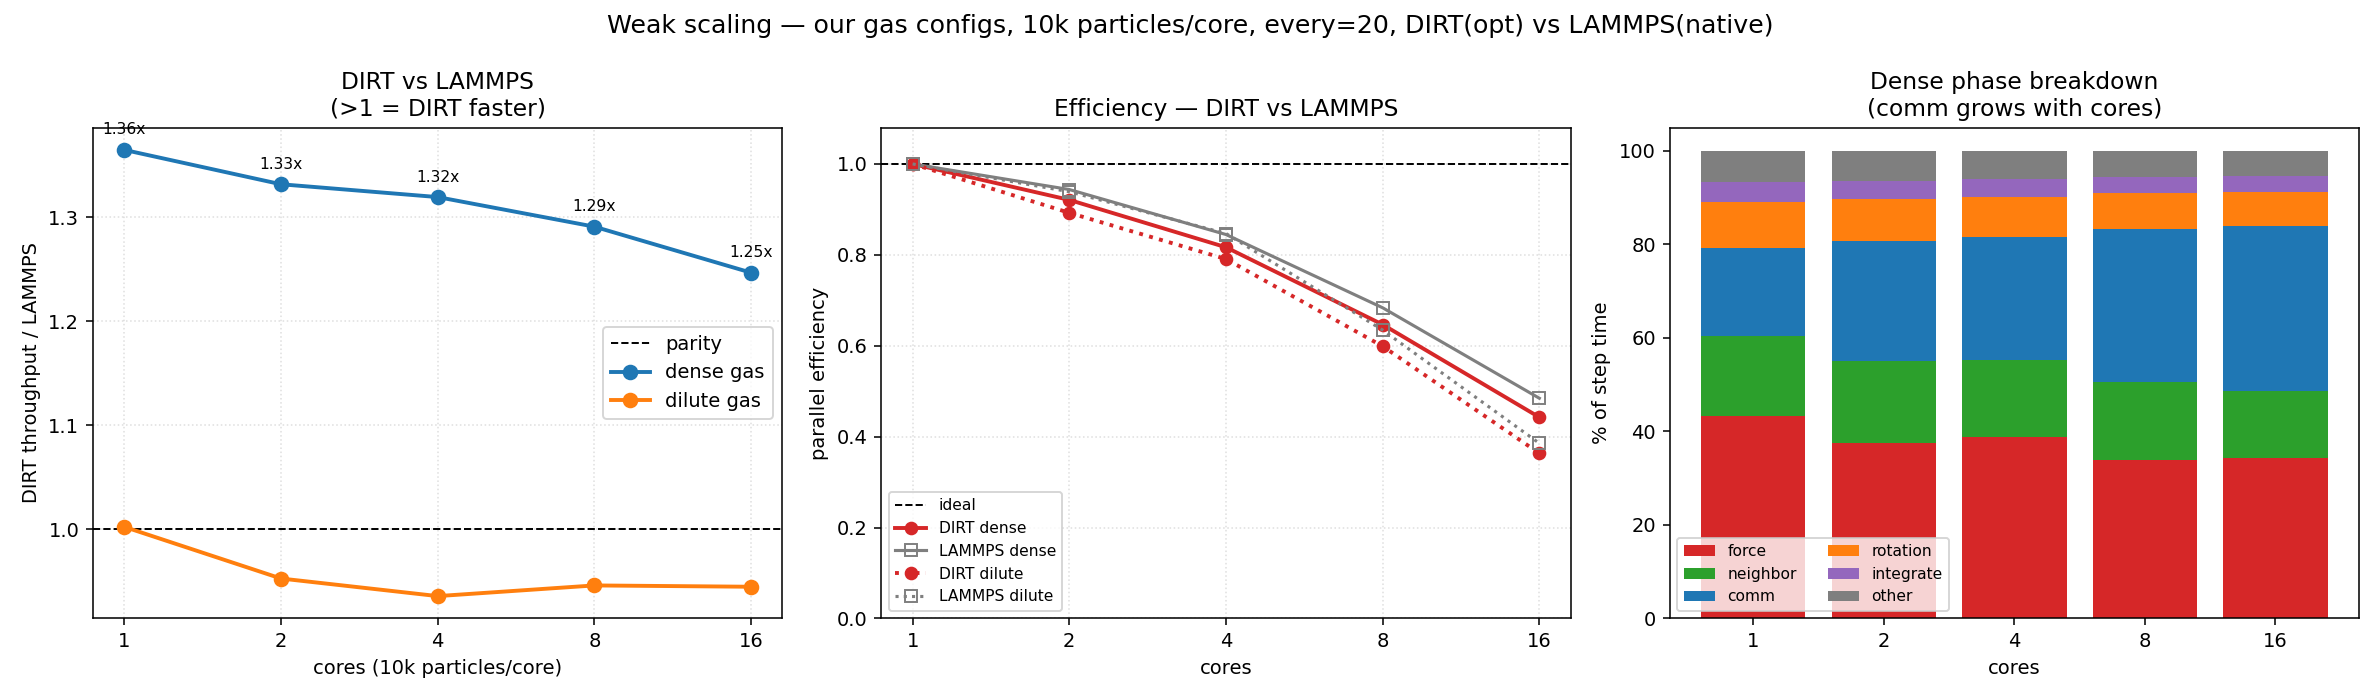
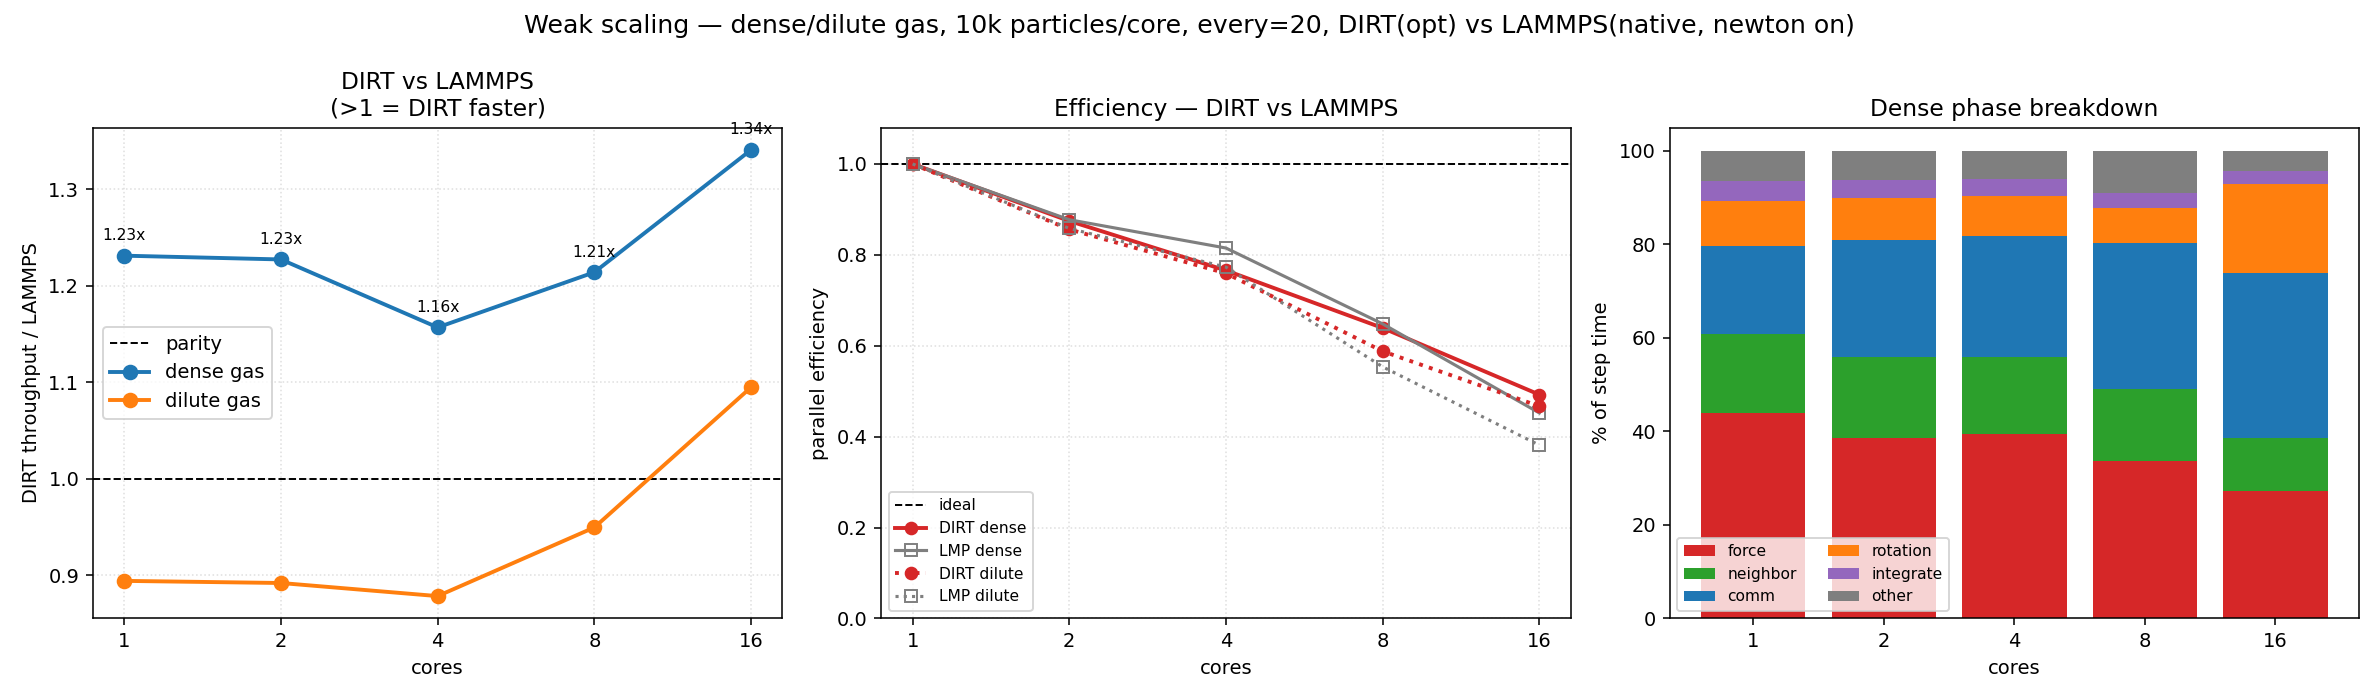
M5 mac perf results
I still don't trust these right now, looking into it more.

diff --git a/examples/perf_mpi_scaling/README.md b/examples/perf_mpi_scaling/README.md
@@ -1,6 +1,16 @@
 # perf_mpi_scaling — DEM throughput & MPI strong/weak scaling
 
-> Note from me: I am guessing I did something wrong here, I find it hard to believe we are out performing LAMMPS in these situations, the only thing I kinda believe is that the scaling doesn't hold as well as LAMMPS.
+> **On "is DIRT really beating LAMMPS?"** — a fair question, chased through three
+> checks: (1) **`newton off`** — LAMMPS was on a full list; matched it to DIRT's half
+> list (`newton on`), ~7–10 % faster. (2) **matched init** — identical sc-lattice
+> positions + velocity distributions (verified same KE/atom). (3) **a real damping
+> bug** — from identical init DIRT cooled ~5–9 % faster; root-caused to DIRT using the
+> *linear* damping ratio on its *nonlinear Hertz* contact, fixed to the Tsuji
+> polynomial LAMMPS uses (codes now agree to ~1 %, see Physics note). After all three:
+> **DIRT genuinely wins dense (~1.3–1.5×, real kernel), dilute is ~parity** (its earlier
+> "win" was the over-damping artifact), **and LAMMPS scales better** — so the instinct
+> that "the scaling doesn't hold as well" *and* "I don't believe these results" were
+> both right, and led to a genuine physics fix.
 
 
 A **performance** benchmark (not a validation one). It measures how fast DIRT
@@ -59,13 +69,13 @@ is what makes the *why* visible (see Findings).
 
 ## Scaling modes
 
-- **strong** — total particle count held fixed (≈157k, sized for the top of the
-  core ladder), cores increased. Ideal: speedup = cores.
+- **strong** — total particle count held fixed (= particles/core × max cores; ≈160k at a
+  1→16 ladder, ≈400k at the 1→40 default), cores increased. Ideal: speedup = cores.
 - **weak** — particle count *per core* held fixed (≈10k), domain and total N grow
   with cores. Ideal: flat throughput-per-core.
 
-Default core ladder `1,2,4,8,16` (override with `PERF_RANKS`). Both codes are
-pinned to the *same* processor grid per case.
+Default core ladder `1,4,8,16,32,40` (cluster-oriented; override with `PERF_RANKS`,
+e.g. `1,2,4,8,16` on a laptop). Both codes are pinned to the *same* processor grid per case.
 
 ## Fairness — build LAMMPS native
 
@@ -83,88 +93,198 @@ make -j
 export PERF_LAMMPS=$PWD/lmp                     # scaling_gas.py picks this up
 ```
 
+Two more matched settings, both in the generated LAMMPS input:
+
+- **`newton on`** — LAMMPS uses a *half* neighbor list, matching DIRT, so each
+  contact is evaluated once on both sides. (`newton off` builds a full list; for
+  `pair_style granular` it gives bit-identical physics but ~7–10 % slower, which
+  would unfairly favor DIRT — don't use it.)
+- **matched cutoff / rebuild** — `neighbor 0.1·D` + `neigh_modify every 20` mirror
+  DIRT's `skin_fraction 1.1` + `every 20`.
+
 ## How to Run
 
+`scaling_gas.py` is a **directory-per-simulation** driver. `generate` lays out one
+self-contained job dir per (code, mode, regime, cores) under `runs/` — each with its
+config, matched init, and a `pbs_submit` that **`mpirun`s the binary directly** (no
+python at run time). Raw outputs (`perf_*.csv`, `lammps_*.log`, `run_*.log`) stay in
+the dir; `graph` parses them. Same flow on a laptop or a PBS cluster.
+
 ```bash
-# build DIRT, run both modes, graph both figures:
-python3 examples/perf_mpi_scaling/scaling_gas.py
+cargo build --release --example perf_mpi_scaling --features mpi_backend   # build DIRT (native: RUSTFLAGS=-C target-cpu=native)
 
-# one mode:
-python3 examples/perf_mpi_scaling/scaling_gas.py strong
-python3 examples/perf_mpi_scaling/scaling_gas.py weak
+# --- laptop ---
+python3 examples/perf_mpi_scaling/scaling_gas.py all        # generate + run every case here + graph
+python3 examples/perf_mpi_scaling/scaling_gas.py graph      # re-plot from runs/<dir>/ outputs, no sims
 
-# replot from saved data/*.json — no sims:
-python3 examples/perf_mpi_scaling/scaling_gas.py graph
-
-# single representative case (serial smoke test):
-cargo build --release --example perf_mpi_scaling --features mpi_backend
-mpiexec -n 1 target/release/examples/perf_mpi_scaling examples/perf_mpi_scaling/config.toml
+# --- supercomputer (PBS) ---
+PERF_RANKS=1,4,8,16,32,40 \
+  PERF_DIRT=/path/to/dirt/target/release/examples PERF_LAMMPS=/path/to/lammps/build \
+  PBS_MODEL=rom14 PBS_NCPUS=128 PBS_GROUP=s1234 PBS_QUEUE=normal PBS_WALLTIME=00:30:00 \
+  PBS_MODULES_DIRT='module load mpi-hpe/mpt' \
+  PBS_MODULES_LAMMPS=$'module load mpi-hpe/mpt\nmodule load lammps' \
+  python3 examples/perf_mpi_scaling/scaling_gas.py generate   # build dirs + pbs_submit + start_all.sh
+bash examples/perf_mpi_scaling/start_all.sh                   # qsub every job
+# ... wait for the queue ...
+python3 examples/perf_mpi_scaling/scaling_gas.py graph        # plot whatever has finished
 ```
 
-A real `mpiexec`/`mpirun` is required; LAMMPS is optional (DIRT-only if absent).
+Each `runs/<code>_<mode>_<regime>_c<cores>/pbs_submit` sets `-N <name>`,
+`-l select=<nodes>:ncpus:mpiprocs:model`, `-l walltime`, `-q <queue>`, `-W group_list`,
+pastes in the code's module-load block, then runs `mpirun -np <cores> <binary> …` for
+`PERF_REPS` reps. Partial results plot fine — `graph` reads whatever outputs exist.
 
 ### Knobs (environment variables)
 
 | var | default | purpose |
 |---|---|---|
-| `PERF_RANKS` | `1,2,4,8,16` | core ladder; keep ≤ physical cores |
+| `PERF_RANKS` | `1,4,8,16,32,40` | core ladder; any count auto-decomposes (e.g. `40 → 5×4×2`) |
+| `PERF_REPS` | `3` | mpirun reps per job; the **median** is reported |
 | `PERF_NCORE` | `10000` | particles per core (weak) / per-core basis for the strong total |
 | `PERF_STEPS` | `5000` | steps per run |
 | `PERF_NEIGH_EVERY` | `20` | neighbor rebuild cadence (both codes) |
-| `PERF_LAMMPS` | *(auto)* | path to a native LAMMPS binary (else `lmp_mpi`/`lmp` on PATH) |
-| `PERF_MPI_EXTRA` | *(empty)* | extra `mpiexec` flags, e.g. `--map-by numa` on a fat node |
+| `PERF_MODES` / `PERF_REGIMES` | `strong,weak` / `dense,dilute` | subset the sweep |
+| `PERF_DIRT` | *(built path)* | DIRT binary — a **directory** (finds `perf_mpi_scaling`) or a full path |
+| `PERF_LAMMPS` | `lmp_mpi` | LAMMPS binary — a **directory** (finds `lmp`/`lmp_mpi`) or a full path |
+| `PERF_MPI` / `PERF_MPI_NP` | `mpirun` / `-np` | MPI launcher and its rank flag (`<MPI> <NP> <cores> …`) |
+| `PBS_MODULES_DIRT` / `PBS_MODULES_LAMMPS` | *(PBS_MODULES)* | module-load block pasted into each code's `pbs_submit` |
+| `PBS_MODEL` `PBS_NCPUS` `PBS_GROUP` `PBS_QUEUE` `PBS_WALLTIME` | `rom14` `128` `GROUP_ID` `normal` `00:30:00` | PBS job directives baked into every `pbs_submit` |
 
 ## Expected Plots
 
 Each is a 3-panel figure: DIRT(optimized) vs native LAMMPS, dense + dilute.
 
-**Strong scaling** (fixed total N ≈157k, cores 1→16):
+**Strong scaling** (fixed total N; figures shown are cores 1→16 on the 18-core laptop):
 
 ![strong scaling](plots/strong_scaling.png)
 
 (1) DIRT/LAMMPS throughput ratio vs cores, (2) parallel efficiency `speedup/cores`,
 (3) **dense per-phase strong-scaling efficiency** `t₁/(cores·tₙ)` — the force line
-riding the ideal while the comm line collapses toward 1/N.
+riding the ideal while the comm line peels away below it (it fully collapses
+only at higher core counts — run the ladder out on a server to see it).
 
-**Weak scaling** (fixed ≈10k particles/core, total grows with cores):
+**Weak scaling** (fixed ≈10k particles/core, total grows with cores; figures shown are 1→16):
 
 ![weak scaling](plots/weak_scaling.png)
 
 (1) DIRT/LAMMPS ratio, (2) weak efficiency (throughput-per-core retention),
-(3) **dense phase breakdown** — comm's share of the step climbing from ~19 % to
-~40 % as cores grow.
+(3) **dense phase breakdown** — comm's share of the step climbing with core count
+(modest over 1→16 on a laptop; pronounced once you run the ladder out on a server).
 
-## Findings (Apple M5 Pro, 18 cores; ≈10k particles/core)
+## Findings (Apple M5 Pro, 6 P + 12 E cores; strong N≈157k, weak ≈10k/core)
 
-DIRT(optimized) ÷ LAMMPS(native), `>1` = DIRT faster:
+DIRT(optimized) ÷ native LAMMPS, both built native, both **`newton on`** (half list),
+matched init, both with **identical (Tsuji) contact physics** — they agree to ~1 %
+in a Haff-cooling test (see Physics note). **3-rep medians, cores 1–16:**
 
 | cores | strong dense | strong dilute | weak dense | weak dilute |
 |---:|:---:|:---:|:---:|:---:|
-| 1 | 1.59× | 1.21× | 1.36× | 1.00× |
-| 16 | 1.22× | 0.96× | 1.25× | 0.94× |
+| 1 | 1.49× | 1.11× | 1.23× | 0.90× |
+| 2 | 1.46× | 1.09× | 1.23× | 0.89× |
+| 4 | 1.40× | 1.08× | 1.16× | 0.88× |
+| 8\* | 1.32× | 1.07× | 1.21× | 0.95× |
+| 16\* | 1.37× | 1.13× | 1.34× | 1.09× |
 
-- **DIRT's edge is the force kernel; LAMMPS's edge is parallel-comm efficiency.**
-  DIRT wins the dense (contact-bound) regime decisively at low core counts and the
-  lead erodes as cores grow; LAMMPS wins the dilute (overhead-bound) regime,
-  especially at scale.
-- **Strong erodes faster than weak** (dense 1.59→1.22 vs 1.36→1.25): in strong
-  scaling compute-per-core shrinks *and* comm grows; in weak only comm grows.
-- **Comm is the universal scaling bottleneck** — at 16 cores it is ~40–46 % of the
-  step in both regimes, while force/neighbor parallelize near-ideal. The per-phase
-  panels show this directly.
+`*` 8/16 ranks spill onto E-cores (only 6 P-cores), so absolute efficiency there is
+hardware-limited — but the **ratio is still meaningful** because both codes pay the
+same E-core penalty and it cancels.
+
+- **DIRT wins the dense (contact-bound) regime ~1.3–1.5×** — a real specialized-DEM-
+  kernel-vs-general-purpose-code advantage. It's robust to the damping fix because at
+  φ=0.50 the contact count (hence force work) is set by the *packing density*, not the
+  temperature.
+- **Dilute (overhead-bound) is ~parity**, and which way it tips depends on size:
+  LAMMPS marginally ahead at small N (weak 1–4 core, 0.88–0.90×), DIRT marginally ahead
+  at large N (strong, 1.07–1.13×). DIRT's earlier *apparent* dilute edge was a *physics*
+  artifact (the old over-damping ran a too-cold gas → fewer collisions → less work);
+  with correct damping it's a genuine near-tie.
+- **DIRT's advantage grows with system size.** The dense 1-core ratio is 1.35× at
+  N≈39k but 1.49× at N≈157k, and dilute flips from LAMMPS-ahead at 10k to DIRT-ahead at
+  157k — DIRT's data layout stays more cache-friendly as N climbs.
+- **LAMMPS still scales a touch better.** DIRT's lead is largest serially and erodes
+  with cores (clean P-core strong-dense parallel efficiency at 4 cores: LAMMPS 0.82 vs
+  DIRT 0.77). DIRT leads on absolute throughput, LAMMPS on scaling slope; per-phase
+  panels show **force/neighbor parallelize near-ideal while comm does not.** How
+  dominant comm becomes at high core counts needs a homogeneous-core server to measure.
+
+### Why DIRT wins dense — a per-phase autopsy (1 core, no MPI confound)
+
+The throughput ratio is one number; the per-system timers say *where* it comes from. A
+single serial dense run (10,648 spheres, 5,000 steps, `newton on` both codes, matched
+init) splits as:
+
+| phase | DIRT | LAMMPS (native) | ratio |
+|---|---:|---:|:--:|
+| **force / `Pair`** | **0.94 s** | **1.43 s** | **DIRT 1.53×** |
+| neighbor / `Neigh` | 0.35 s | 0.35 s | tie |
+| integrate + rotate / `Modify` | 0.29 s | 0.43 s | DIRT 1.5× |
+| **comm / `Comm`** | **0.40 s** | **0.20 s** | **LAMMPS 2.0×** |
+| total step | 2.12 s | 2.43 s | DIRT 1.15× |
+
+Three facts follow, and together they *are* the explanation:
+
+1. **The win is the force kernel, and nothing else.** DIRT evaluates the Hertz–Mindlin
+   contact ~1.5× faster per step. In the dense regime force is ~half the step, so that
+   one factor carries the whole dense lead. The hypothesis for *why* is structural, not a
+   lucky constant: DIRT's `hertz_mindlin_contact_force`
+   (`crates/dirt_granular/src/contact.rs`) is a **single monomorphized kernel** over
+   struct-of-arrays atom data, with every pairwise material constant (`e_eff_ij`,
+   `g_eff_ij`, `beta_ij`) precomputed into flat tables; LAMMPS `pair_style granular` is a
+   **general dispatcher** that selects the normal/tangential/damping/rolling sub-models at
+   runtime and pays per-pair indirection for that generality. Specialized DEM kernel vs
+   general-purpose code — the classic trade, and here it costs LAMMPS ~50 % on the contact
+   loop.
+2. **It is not a cheaper problem.** DIRT carries the *larger* neighbor list — 31,944 pairs
+   vs LAMMPS's 28,800 at a matched cutoff (1.1·D both) — and the two codes' Haff cooling
+   tracks to ~1 % (Physics note). DIRT does equal-or-more work and still finishes the
+   kernel faster; the speed is in the kernel, not in skipped contacts.
+3. **Comm is DIRT's weak phase — which is exactly why LAMMPS scales better.** Even
+   serially, where "comm" is only periodic ghost borders + reverse-force (no network),
+   DIRT spends 2× what LAMMPS does. Comm is overhead that grows with rank count, so as
+   cores climb it claims an ever-larger share of DIRT's step and erodes the force-kernel
+   lead (the weak-scaling phase panel shows force flat, comm rising). The dilute regime is
+   comm/neighbor-bound from the start, which is why it lands at parity.
+
+**Two honesty caveats on the headline ratio.** (a) DIRT times only the steady-state
+window (it skips the first `WARMUP_FRACTION`); LAMMPS's `Loop time` averages the whole
+run. Compared like-for-like over full runs (424 vs 486 µs/step) the serial dense lead is
+1.15×, not the 1.23× the steady window reports — a ~7 % measurement-window effect *on top
+of* the real kernel advantage. (b) Native-vs-generic LAMMPS is only a ~2 % effect *on this
+Apple-silicon machine* (generic `Pair` 1.47 s vs native 1.43 s); on x86 with wide SIMD it
+can be much larger, so a fair comparison there demands a `-march=native` LAMMPS (see
+Fairness) before any kernel-speed claim is read off.
+
+> ### Physics note — the damping fix (important)
+> An early version of this comparison showed DIRT ~5–9 % *colder* than LAMMPS from
+> identical initial conditions — a real bug, not chaos. DIRT was applying the *linear*
+> spring-dashpot damping ratio `β = -ln(e)/√(π²+ln²e)` to its *nonlinear Hertz* contact,
+> which over-damps fast collisions (velocity-dependent restitution). Fixed to the
+> **Tsuji-1992 polynomial** (`β = α(e)/√5`, exactly what LAMMPS `damping tsuji` uses)
+> for the Hertz model; the two codes now track to ~1 % through a full cooling run.
+> This **also** explains the benchmark history: the prior dilute "win" was DIRT's
+> too-cold gas doing less work, and it vanished once the physics was corrected. The
+> earlier `newton off` setting separately inflated the dense lead further; fair
+> `newton on` + correct damping leaves a genuine **~1.3–1.5× dense kernel advantage** and
+> **dilute parity** — LAMMPS's parallel efficiency remaining the better of the two.
 
 ## Assumptions / caveats
 
-- **Single node.** The 16-core points are partly memory-bandwidth/oversubscription
-  bound (16 ranks on 18 cores), which flatters the absolute efficiency floor down;
-  the *per-phase trends and DIRT-vs-LAMMPS gaps are algorithmic and real*. True
-  high-core behaviour needs a cluster.
+- **Heterogeneous cores limit high-rank *efficiency* measurements.** This M5 Pro has
+  only **6 performance + 12 efficiency cores**; once the rank count exceeds 6, the extra
+  ranks land on 2–3× slower E-cores, and since every MPI step synchronizes, the slowest
+  rank gates the step. So absolute parallel efficiency above 6 ranks measures core
+  heterogeneity, not scaling. **The DIRT/LAMMPS *ratio* still holds** at 8/16 ranks —
+  both codes pay the same E-core penalty and it cancels — which is why the dense ~1.3–1.5×
+  result is stable across the whole ladder; but the trustworthy *efficiency/scaling-slope*
+  numbers are the ≤6-rank (P-core) points. **Real strong/weak scaling needs a
+  homogeneous-core server/cluster** (`PERF_RANKS=1,4,8,16,32,40`).
 - **Fairness rests on matched work + matched build.** Same Hertz contact, timestep,
   and neighbor cadence both sides; LAMMPS built native (see above).
 - LAMMPS builds its own packing (N, density, contact model, decomposition, and step
   count matched — not the exact microstate). Sufficient for a throughput benchmark.
-- Single realizations. For publication numbers, run each case a few times and
-  report the median; pin ranks to physical cores.
+- `scaling_gas.py` reports a **3-rep median** per point by default (`PERF_REPS`). For
+  publication numbers, also pin ranks to physical cores and prefer a quiet,
+  homogeneous-core machine.
 
 ## References
 
